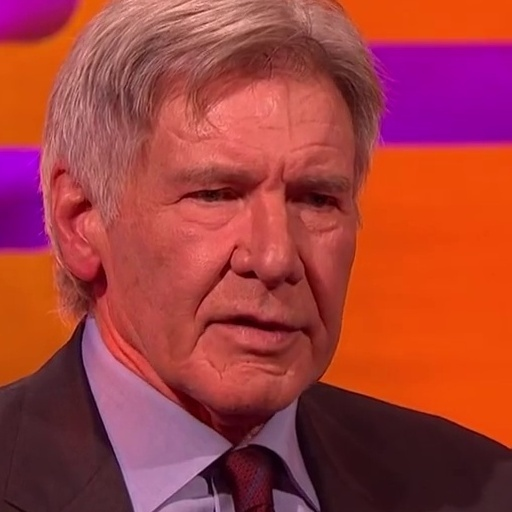
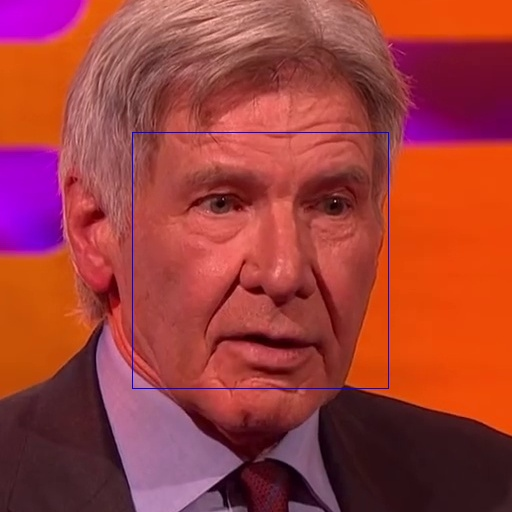
changes

diff --git a/autoencoder_256.py b/autoencoder_256.py
@@ -20,7 +20,7 @@ session = InteractiveSession(config=config)
 
 # ********************************************************************
 
-IMAGE_SHAPE = (128, 128, 3)
+IMAGE_SHAPE = (256, 256, 3)
 ENCODER_DIM = 1024
 
 optimizer = Adam(lr=5e-5, beta_1=0.5, beta_2=0.999)
@@ -60,15 +60,13 @@ def Encoder():
     x = Dense(8 * 8 * 1024)(x)
     x = Reshape((8, 8, 1024))(x)
     x = upscale(512)(x)
-    # x = upscale(1024)(x)
     return Model(input_, x)
 
 
 def Decoder():
     input_ = Input(shape=(16, 16, 512))
     x = input_
-    # x = upscale(1024)(x)
-    # x = upscale(512)(x)
+    x = upscale(1024)(x)
     x = upscale(512)(x)
     x = upscale(256)(x)
     x = upscale(128)(x)
@@ -104,47 +102,53 @@ try:
     encoder.load_weights("models/128/encoder.h5")
     decoder_A.load_weights("models/128/decoder_A.h5")
     decoder_B.load_weights("models/128/decoder_B.h5")
+
+    print("... load models")
 except:
     print("models does not exist")
 
-images_A = get_image_paths("data/harrison")
-images_B = get_image_paths("data/ryan")
-images_A = load_images(images_A) / 255.0
-images_B = load_images(images_B) / 255.0
+try:
+    images_A = get_image_paths("data/harrison")
+    images_B = get_image_paths("data/ryan")
+    images_A = load_images(images_A) / 255.0
+    images_B = load_images(images_B) / 255.0
 
-images_A += images_B.mean(axis=(0, 1, 2)) - images_A.mean(axis=(0, 1, 2))
+    images_A += images_B.mean(axis=(0, 1, 2)) - images_A.mean(axis=(0, 1, 2))
+    print("... load images")
+except:
+    print("load images failed")
 
-for epoch in range(100000):
+for epoch in range(10):
     batch_size = 32
     warped_A, target_A = get_training_data(images_A, batch_size)
     warped_B, target_B = get_training_data(images_B, batch_size)
 
-    # loss_A = autoencoder_A.train_on_batch(warped_A, target_A)
-    # loss_B = autoencoder_B.train_on_batch(warped_B, target_B)
-    # print(epoch, loss_A, loss_B)
-    #
-    # if epoch % 100 == 0:
-    #     save_model_weights()
-    #     test_A = target_A[0:14]
-    #     test_B = target_B[0:14]
-    #
-    # figure_A = numpy.stack([
-    #     test_A,
-    #     autoencoder_A.predict(test_A),
-    #     autoencoder_B.predict(test_A),
-    # ], axis=1)
-    #
-    # figure_B = numpy.stack([
-    #     test_B,
-    #     autoencoder_B.predict(test_B),
-    #     autoencoder_A.predict(test_B),
-    # ], axis=1)
-    #
-    # figure = numpy.concatenate([figure_A, figure_B], axis=0)
-    # figure = figure.reshape((4, 7) + figure.shape[1:])
-    # figure = stack_images(figure)
-    #
-    # figure = numpy.clip(figure * 255, 0, 255).astype('uint8')
-    #
-    # cv2.imshow("", figure)
-    # key = cv2.waitKey(1)
+    loss_A = autoencoder_A.train_on_batch(warped_A, target_A)
+    loss_B = autoencoder_B.train_on_batch(warped_B, target_B)
+    print(epoch, loss_A, loss_B)
+
+    if epoch % 100 == 0:
+        save_model_weights()
+        test_A = target_A[0:14]
+        test_B = target_B[0:14]
+
+    figure_A = numpy.stack([
+        test_A,
+        autoencoder_A.predict(test_A),
+        autoencoder_B.predict(test_A),
+    ], axis=1)
+
+    figure_B = numpy.stack([
+        test_B,
+        autoencoder_B.predict(test_B),
+        autoencoder_A.predict(test_B),
+    ], axis=1)
+
+    figure = numpy.concatenate([figure_A, figure_B], axis=0)
+    figure = figure.reshape((4, 7) + figure.shape[1:])
+    figure = stack_images(figure)
+
+    figure = numpy.clip(figure * 255, 0, 255).astype('uint8')
+
+    cv2.imshow("", figure)
+    key = cv2.waitKey(1)

diff --git a/script_256.py b/script_256.py
@@ -96,6 +96,8 @@ try:
     encoder.load_weights("models/128/encoder.h5")
     decoder_A.load_weights("models/128/decoder_A.h5")
     decoder_B.load_weights("models/128/decoder_B.h5")
+
+    print("... load models")
 except:
     print("models does not exist")
 
@@ -107,6 +109,10 @@ def convert_one_image(autoencoder, source_image):
     assert source_image.shape == (512, 512, 3)
     crop = slice(132, 388)
     source_image_face = source_image[crop, crop]
+
+    color = (255, 0, 0)
+    source_image_rect = cv2.rectangle(source_image, (132, 132), (388, 388), color, 1)
+    cv2.imshow("source_image_rect", source_image_rect)
 
     cv2.imshow("source_image", source_image)
     cv2.imshow("source_image_face", source_image_face)
@@ -144,7 +150,6 @@ for fn in images_A:
     image = cv2.imread(fn)
     new_image = convert_one_image(autoencoder_B, image)
     output_file = output_dir / Path(fn).name
-    cv2.imwrite(str(output_file), new_image)
-
+    # cv2.imwrite(str(output_file), new_image)
 
 key = cv2.waitKey(0)

diff --git a/training_data.py b/training_data.py
@@ -2,6 +2,7 @@ import numpy
 from image_augmentation import random_transform
 from image_augmentation import random_warp
 import cv2
+from crop_face import getFace
 
 random_transform_args = {
     'rotation_range': 10,
@@ -14,9 +15,11 @@ random_transform_args = {
 def get_training_data(images, batch_size):
     indices = numpy.random.randint(len(images), size=batch_size)
     for i, index in enumerate(indices):
+
         image = images[index]
+
         image = random_transform(image, **random_transform_args)
-        warped_img, target_img = random_warp(image, coverage=256, scale=5, zoom=2)
+        warped_img, target_img = random_warp(image, size=256, scale=5, zoom=4)
 
         cv2.imshow("warped_image", warped_img)
         cv2.imshow("target_img", target_img)
@@ -28,5 +31,5 @@ def get_training_data(images, batch_size):
         warped_images[i] = warped_img
         target_images[i] = target_img
 
-    # key = cv2.waitKey(0)
+    key = cv2.waitKey(0)
     return warped_images, target_images

diff --git a/utils.py b/utils.py
@@ -1,7 +1,7 @@
 import cv2
 import numpy
 import os
-
+from crop_face import getFace
 
 def get_image_paths(directory):
     return [x.path for x in os.scandir(directory) if x.name.endswith(".jpg") or x.name.endswith(".png")]
@@ -12,6 +12,7 @@ def load_images(image_paths, convert=None):
     if convert:
         iter_all_images = (convert(img) for img in iter_all_images)
     for i, image in enumerate(iter_all_images):
+        image = getFace(image, 256)
         if i == 0:
             all_images = numpy.empty((len(image_paths),) + image.shape, dtype=image.dtype)
         all_images[i] = image

diff --git a/crop_face.py b/crop_face.py
@@ -1,0 +1,19 @@
+import cv2
+import dlib
+
+frontal_face_detector = dlib.get_frontal_face_detector()
+frontal_face_predictor = dlib.shape_predictor("detect/shape_predictor_68_face_landmarks.dat")
+
+
+def getFace(source_image, size):
+    faceRects = frontal_face_detector(source_image, 0)
+    for faceRect in faceRects:
+        x = faceRect.left()
+        y = faceRect.top()
+        w = faceRect.right() - x
+        h = faceRect.bottom() - y
+
+        sub_face = source_image[x:x+w, y:y+h]
+
+        sub_face = cv2.resize(sub_face, (int(size), int(size)))
+    return sub_face

diff --git a/image_augmentation.py b/image_augmentation.py
@@ -18,9 +18,9 @@ def random_transform(image, rotation_range, zoom_range, shift_range, random_flip
     return result
 
 
-def random_warp(image, coverage=120, scale=5, zoom=2):
-    assert image.shape == (512, 512, 3)
-    range_ = numpy.linspace(256 - coverage // 2, 256 + coverage // 2, 5)
+def random_warp(image, size, scale=5, zoom=4):
+    assert image.shape == (size, size, 3)
+    range_ = numpy.linspace(0, size, 5)
 
     mapx = numpy.broadcast_to(range_, (5, 5))
     mapy = mapx.T

diff --git a/seamless_image.py b/seamless_image.py
@@ -41,4 +41,7 @@ def seamless_images(source_image_path, destination_image_path):
         cv2.NORMAL_CLONE
     )
 
+    output_file = "seamless/final_destination_face_mask.jpg"
+    cv2.imwrite(str(output_file), final_destination_face_mask)
+
     return seamlesscloned_face
